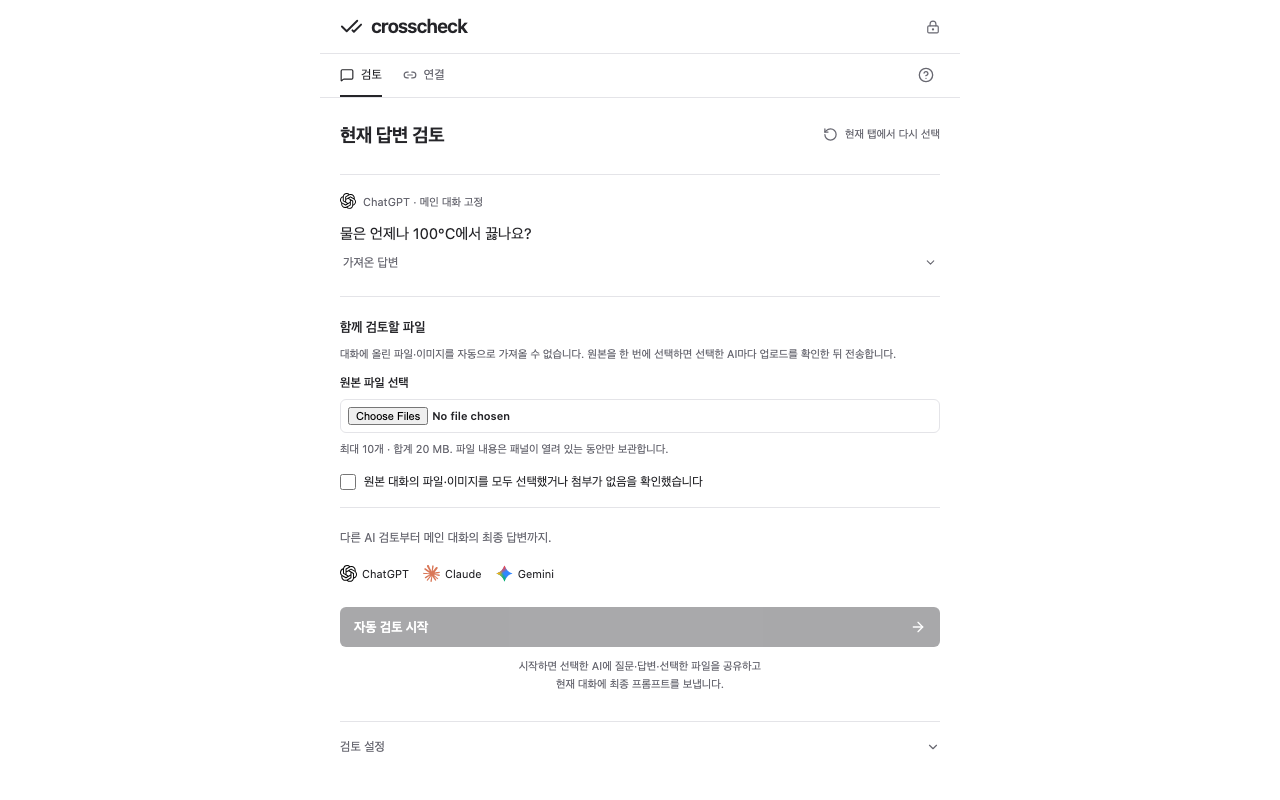
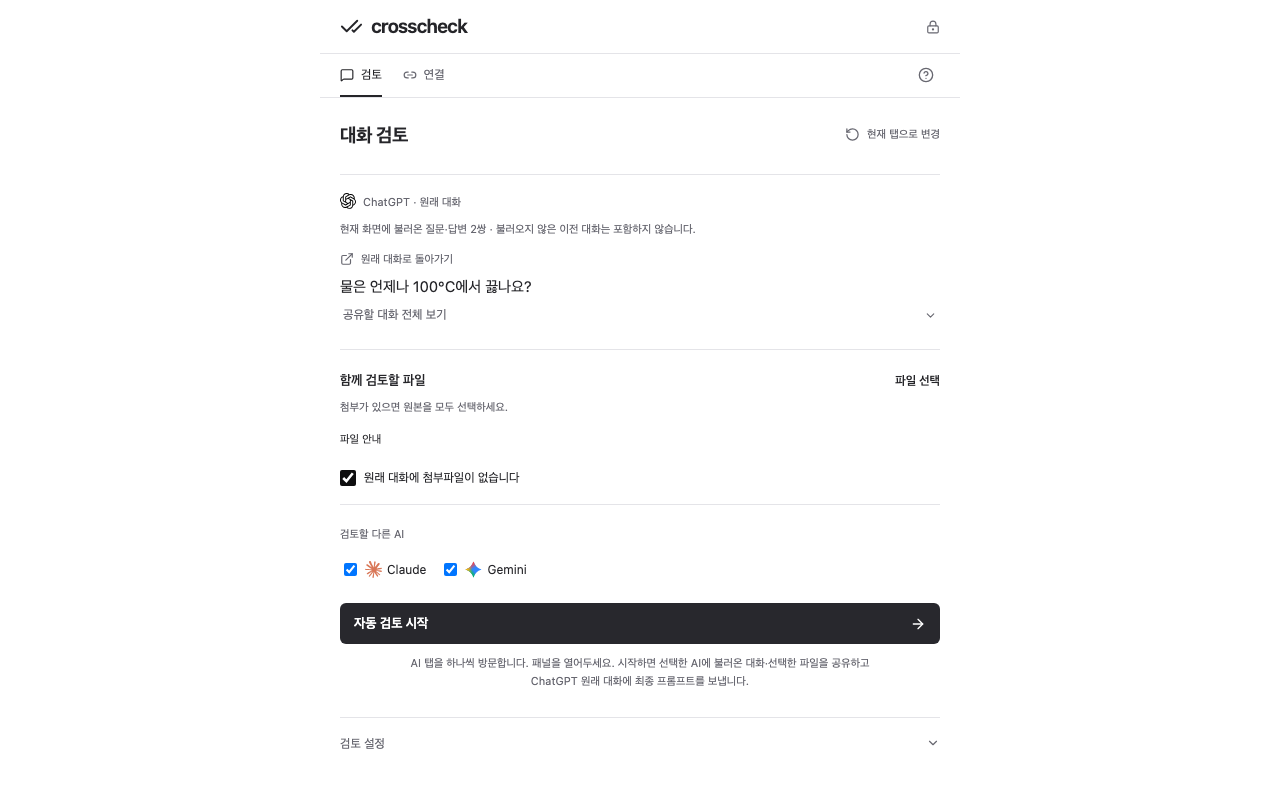
Refresh public UI artwork and document control shutdown evidence

diff --git a/docs/release/release-checklist.md b/docs/release/release-checklist.md
@@ -74,3 +74,5 @@ The existing item remains a never-published **0.3.1 draft**, with submission dis
 The multi-turn Korean detailed description, single-purpose explanation, four permission justifications, public privacy URL and **No remote code** selection were saved and revisited to confirm exact persistence. With No selected, the remote-code explanation field is disabled. The **Additional instructions** field contains 385/500 Korean characters covering normal provider login, multi-turn import, all-originals selection, one-start review, original-main synthesis, no uncertain resend and the public support address. Username/password fields remain empty.
 
 The dashboard now lists icon, screenshot/video and data-use certification as remaining form prerequisites. Website content and personal-communications categories were selected, saved, and confirmed after revisiting the form; their definitions cover the handled text/files/chat messages. The three data-use certification checkboxes remain unchecked. Account/trader declarations, legal agreements, review submission and publication were not changed. The candidate ZIP, live validation and provider-permission gates above still apply even after form prerequisites are complete.
+
+The two actual React UI harness screenshots were refreshed for 0.4.0 with synthetic two-turn content, visually inspected, and verified as opaque 8-bit RGB PNG at 1280×800. The existing promo is 440×280 RGB; the product icon remains owned by `public/icons/128.png`. These are prepared local assets. The supported DOM upload rejected a path outside its browser-session directory; no filesystem workaround was attempted. A standard native picker attempt did not produce a confirmed open dialog, and screenshot capture timed out. Native control was stopped; no image upload or saved preview is claimed from these attempts.

diff --git a/AGENTS.md b/AGENTS.md
@@ -35,7 +35,7 @@
 - For native file pickers, verify each state transition: picker opened, path field opened, path resolved, intended directory selected, installation accepted. Do not chain dependent keystrokes across unobserved dialogs.
 - Treat UI actions as attempts until a fresh observation confirms the result. Reacquire element references after state changes. If accessibility text and visible state disagree, inspect a screenshot and a fresh snapshot before repeating an action.
 - Prefer DOM tools for web content and native UI tools only for browser chrome or native dialogs. Avoid competing controllers manipulating the same surface. Serialize operations that require the same foreground surface, and verify readiness after activation.
-- Keep native computer control active only while it is needed for a UI action. Release the control session when returning to code or tests; do not leave unnecessary capture or control running in the background.
+- Keep native computer control active only while it is needed for a UI action. Release it when returning to code or tests; a client reset alone does not prove its backend stopped. If a control helper remains active, identify ownership and stop only the authorized helper without disrupting unrelated tasks or applications.
 - Forward attachments only after the user selects the original files and each destination confirms upload readiness. Never silently omit a file, infer binary content from a thumbnail, or persist raw attachment bytes in workspace history. After losing in-memory files, require matching originals before resuming.
 - Use a new, non-sensitive test conversation for live sends. Verify the installed production path through final answer collection; manual DOM injection or a panel in a regular tab is not proof that the native side panel works.
 

diff --git a/docs/development/verification-lessons.md b/docs/development/verification-lessons.md
@@ -160,3 +160,9 @@ For a new incident, record the observed failure, evidence, confirmed cause (or e
 - Observation: the send loop delayed its click but compared text immediately. A synthetic asynchronous paragraph cleanup reproduced a false draft mismatch before the settling deadline. Later stable live Claude DOM matched the prompt, but its insertion-time layout was not captured.
 - Correction: gate the first exact comparison and sole click with the same settling condition while checking cancellation, editor identity, generation and files immediately. Do not weaken comparisons or lengthen the wait without evidence.
 - Verification: all existing early concurrent edits and new postsettling mutations remained blocked. The next live run collected Claude's answer and review; the whole three-provider pipeline still encountered separate loading/filename failures.
+
+### Resetting a native-control client does not prove its helper stopped
+
+- Observation: after a store-image picker attempt, native screenshot capture timed out. Resetting the control REPL left its dedicated helper running at about 27% CPU; the Aside REPL also did not exit normally.
+- Correction: follow the user's explicit request to stop unused computer control. Stop the identified control helper gracefully and interrupt only the task-owned REPL; do not terminate unrelated apps or broad process groups.
+- Verification: a fresh process listing no longer contained the dedicated helper and the task REPL exited. Image slots were not confirmed uploaded; prepared local artwork is separate from store persistence. Check that the supported native tool restarts normally before later UI work.

diff --git a/docs/release/assets/README.md b/docs/release/assets/README.md
@@ -4,6 +4,7 @@ Prepared 2026-10-06. These assets are not uploaded or approved store materials.
 
 - `promo.svg` is the editable 440×280 promotional source. `promo-440x280.png` is its opaque browser-rendered export. The check motif follows the existing product icon and bundled Lucide attribution.
 - `review-1280x800.png` and `result-1280x800.png` capture the actual React UI in the local synthetic test harness at 1280×800. The question and answers are fixtures, not live account conversations or proof of provider compatibility. No account data appears in them.
+- These two captures were refreshed for the 0.4.0 candidate after multi-turn/UI changes. The harness uses two synthetic pairs and displays the candidate version; it does not simulate browser-service success evidence. Both images were visually inspected for wording/clipping. The two screenshots and promotional PNG are 8-bit RGB with no alpha and match their named dimensions.
 - The 128×128 product icon is owned by `public/icons/128.png`; reuse that file rather than maintain a second copy.
 
 Regenerate UI captures after visible changes. Check the exact dimensions, clipping, current wording, and provider-brand permissions before publication. Prefer a native-panel capture with a synthetic conversation once that end-to-end workflow passes; keep private account sidebars and identifiers out of store images.
